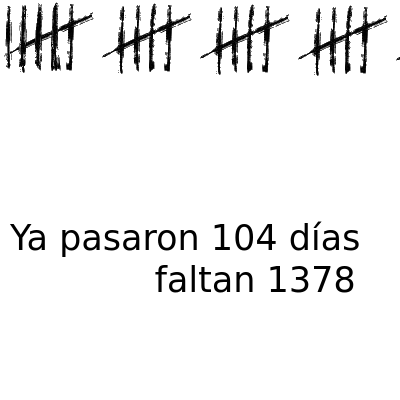
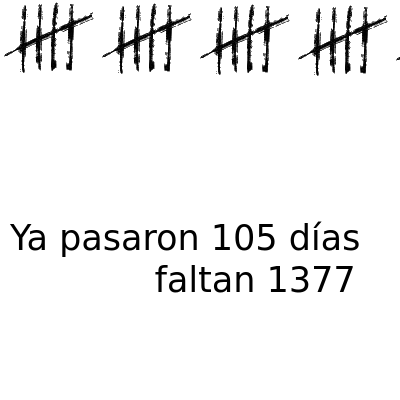
deploy: 28882f26f23b9f53dac6c4991168e610486d0e44

Changed region(s): [[0.0, 0.0, 0.15, 0.18], [0.84, 0.66, 0.9, 0.75], [0.63, 0.54, 0.69, 0.63]]

diff --git a/index.html b/index.html
@@ -3,19 +3,19 @@
   <head>
     <meta charset='utf-8'>
     <meta http-equiv='X-UA-Compatible' content='IE=edge'>
-    <title>Ya pasaron 104 días y faltan 1378</title>
-    <meta name="description" content="Ya pasaron 104 días y faltan 1378">
-    <meta itemprop="name" content="Ya pasaron 104 días y faltan 1378">
-    <meta itemprop="description" content="Ya pasaron 104 días y faltan 1378">
+    <title>Ya pasaron 105 días y faltan 1377</title>
+    <meta name="description" content="Ya pasaron 105 días y faltan 1377">
+    <meta itemprop="name" content="Ya pasaron 105 días y faltan 1377">
+    <meta itemprop="description" content="Ya pasaron 105 días y faltan 1377">
     <meta name="twitter:card" content="summary">
-    <meta name="twitter:title" content="Ya pasaron 104 días y faltan 1378">
-    <meta name="twitter:description" content="Ya pasaron 104 días y faltan 1378">
+    <meta name="twitter:title" content="Ya pasaron 105 días y faltan 1377">
+    <meta name="twitter:description" content="Ya pasaron 105 días y faltan 1377">
     <meta name="twitter:creator" content="@FloriusWasTaken">
     <meta name="twitter:image" content="https://pasaron.meme.ar/capture.png">
-    <meta property="og:title" content="Ya pasaron 104 días y faltan 1378">
-    <meta property="og:description" content="Ya pasaron 104 días y faltan 1378">
+    <meta property="og:title" content="Ya pasaron 105 días y faltan 1377">
+    <meta property="og:description" content="Ya pasaron 105 días y faltan 1377">
     <meta property="og:url" content="https://pasaron.meme.ar">
-    <meta property="og:site_name" content="Ya pasaron 104 días y faltan 1378">
+    <meta property="og:site_name" content="Ya pasaron 105 días y faltan 1377">
     <meta property="og:type" content="website">
     <meta property="og:image" content="https://pasaron.meme.ar/capture.png">
     <meta name="theme-color" content="#dc143c">
@@ -69,18 +69,16 @@
         padding: 0;
       }
     </style>
-    <title>Ya pasaron 104 días y faltan 1378</title>
+    <title>Ya pasaron 105 días y faltan 1377</title>
   </head>
   <body>
     <div id="main">
-      <img src="img/5.png"/><img src="img/5.png"/><img src="img/5.png"/><img src="img/5.png"/><img src="img/5.png"/><img src="img/5.png"/><img src="img/5.png"/><img src="img/5.png"/><img src="img/5.png"/><img src="img/5.png"/><img src="img/5.png"/><img src="img/5.png"/><img src="img/5.png"/><img src="img/5.png"/><img src="img/5.png"/><img src="img/5.png"/><img src="img/5.png"/><img src="img/5.png"/><img src="img/5.png"/><img src="img/5.png"/>
-      
-        <img src="img/4.png"/>
+      <img src="img/5.png"/><img src="img/5.png"/><img src="img/5.png"/><img src="img/5.png"/><img src="img/5.png"/><img src="img/5.png"/><img src="img/5.png"/><img src="img/5.png"/><img src="img/5.png"/><img src="img/5.png"/><img src="img/5.png"/><img src="img/5.png"/><img src="img/5.png"/><img src="img/5.png"/><img src="img/5.png"/><img src="img/5.png"/><img src="img/5.png"/><img src="img/5.png"/><img src="img/5.png"/><img src="img/5.png"/><img src="img/5.png"/>
       
     </div>
     <footer id="footer">
       <marquee id="marquee" class="is-vertical-align">
-        Ya pasaron 104 días y faltan 1378
+        Ya pasaron 105 días y faltan 1377
       </marquee>
       <ul>
         <li>
